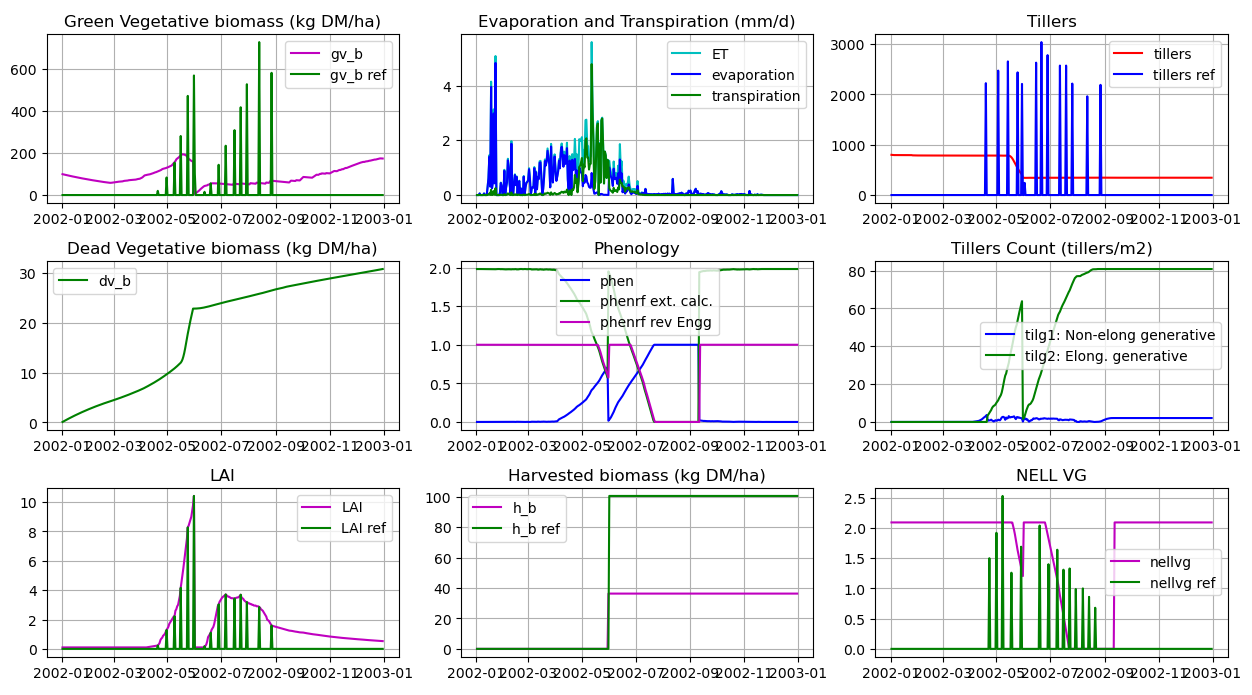
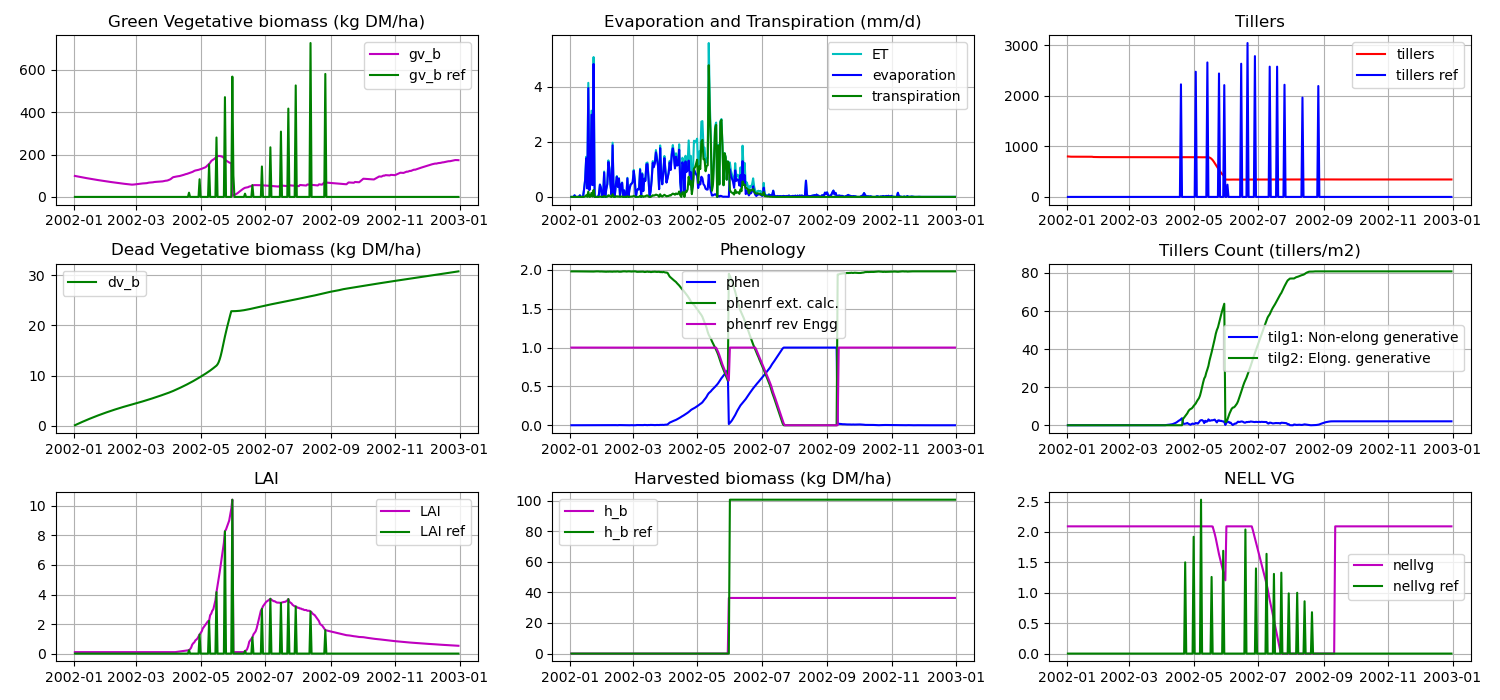
update on bash shell script and python arguments parsing

diff --git a/run_basgra.py b/run_basgra.py
@@ -4,30 +4,38 @@ from lib_read_input_files import *
 from lib_basgra import *
 # basgra model as a function
 from basgra import *
-#basgra(params, weather, ndays)
-
+# Read arguments given to this script
+import argparse
+parser = argparse.ArgumentParser(description="Runs the BASGRA simulation")
+parser.add_argument("params_fname", default='params.csv', help="The CSV file holding the input parameters")
+parser.add_argument("weather_fname", default='weather.csv', help="The CSV file holding the weather data, the RS data (Evap, tran, LAI & cut dates)")
+parser.add_argument("startdoy", default=1, type=int, help="The DOY at which the simulation starts")
+parser.add_argument("enddoy", default=365, type=int, help="The DOY at which the simulation stops")
+parser.add_argument("startyear", default=2002, type=int, help="The YEAR at which the simulation starts")
+parser.add_argument("endyear", default=2002, type=int, help="The YEAR at which the simulation stops")
+args = parser.parse_args()
 
 # Input definition 
-params_fname = 'params.csv'
-weather_fname = 'weather.csv'
-startdoy = 1
-enddoy = 365
-startyear = 2002
-endyear = 2002
+#params_fname = 'params.csv'
+#weather_fname = 'weather.csv'
+#startdoy = 1
+#enddoy = 365
+#startyear = 2002
+#endyear = 2002
 
 # Create out_dates list
 import datetime
 out_dates = []
-d = datetime.date(startyear,1,1)+datetime.timedelta(days=startdoy)
-while d <= datetime.date(endyear,1,1)+datetime.timedelta(days=enddoy):
+d = datetime.date(args.startyear,1,1)+datetime.timedelta(days=args.startdoy)
+while d <= datetime.date(args.endyear,1,1)+datetime.timedelta(days=args.enddoy):
     out_dates.append(d)
     d += datetime.timedelta(days=1)
 
 
 # Read Params file (params.csv) and create array
-params = read_params(params_fname)
+params = read_params(args.params_fname)
 # Read Weather file (weather.csv) and create array
-weather = read_weather(weather_fname)
+weather = read_weather(args.weather_fname)
 
 def run_basgra(params, weather, startdoy, enddoy, startyear, endyear):
     # Run BASGRA
@@ -141,4 +149,4 @@ def run_basgra(params, weather, startdoy, enddoy, startyear, endyear):
     plt.show()
 
 # run the main function
-run_basgra(params, weather, startdoy, enddoy, startyear, endyear)
+run_basgra(params, weather, args.startdoy, args.enddoy, args.startyear, args.endyear)
